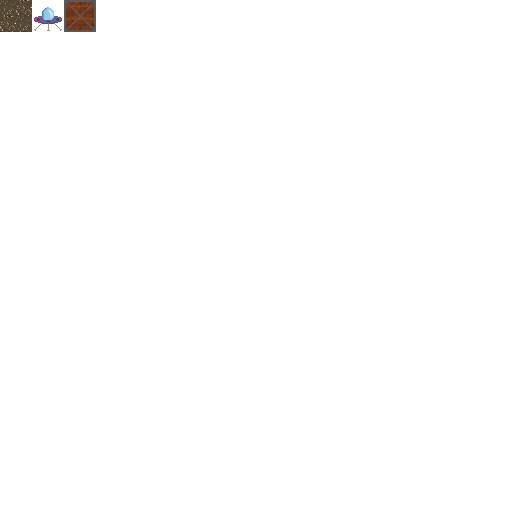
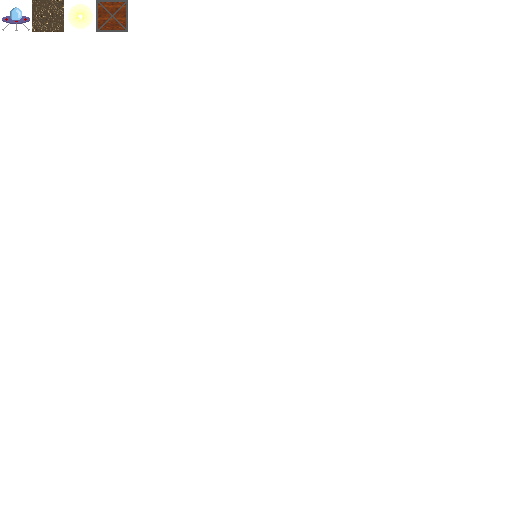
Added blast

Changed region(s): [[0.0, 0.0, 0.25, 0.0625]]

diff --git a/actors.py b/actors.py
@@ -5,6 +5,7 @@ import ui
 import drawing
 import cmath
 import math
+import os
 
 class StaticTriangle(object):
     def __init__(self,physics,vertices):
@@ -198,7 +199,7 @@ class PlayerShip(DynamicBox):
         for offset in Point(20,5),Point(-20,5):
             bpos = Point(*self.body.GetWorldPoint(tuple(offset*self.physics.scale_factor)))/self.physics.scale_factor
             print bpos
-            bullet = PlayerBullet(self.physics,bpos,bpos+Point(10,10),tc = self.tc)
+            bullet = PlayerBullet(self.physics,bpos,bpos+Point(20,20),tc = self.parent.atlas.TextureCoords(os.path.join(globals.dirs.sprites,'blast.png')))
             #print dir(bullet.body)
             bullet.body.linearVelocity = tuple(Point(*self.body.linearVelocity) + (pos - bpos).unit_vector()*200)
             self.bullets.append(bullet)
